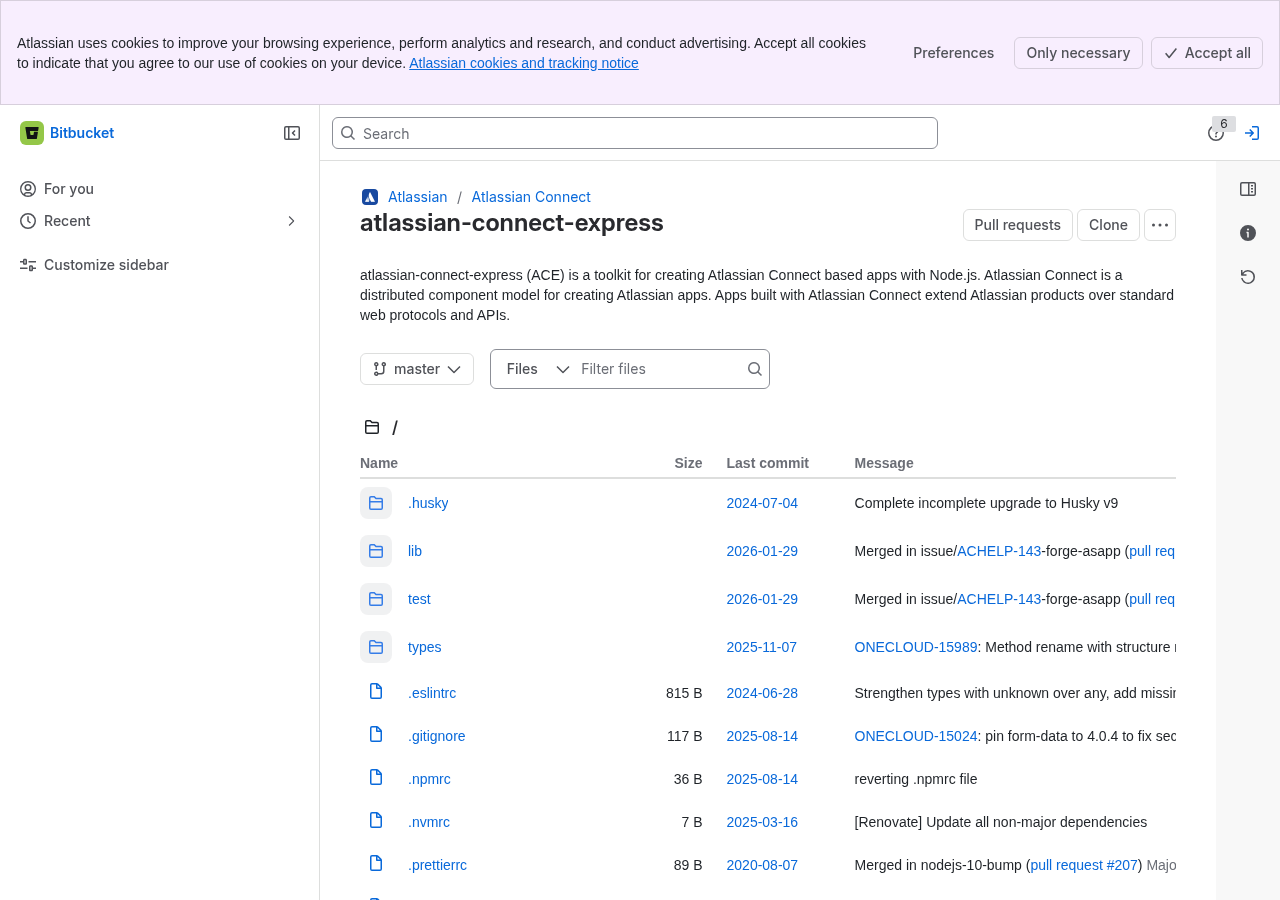
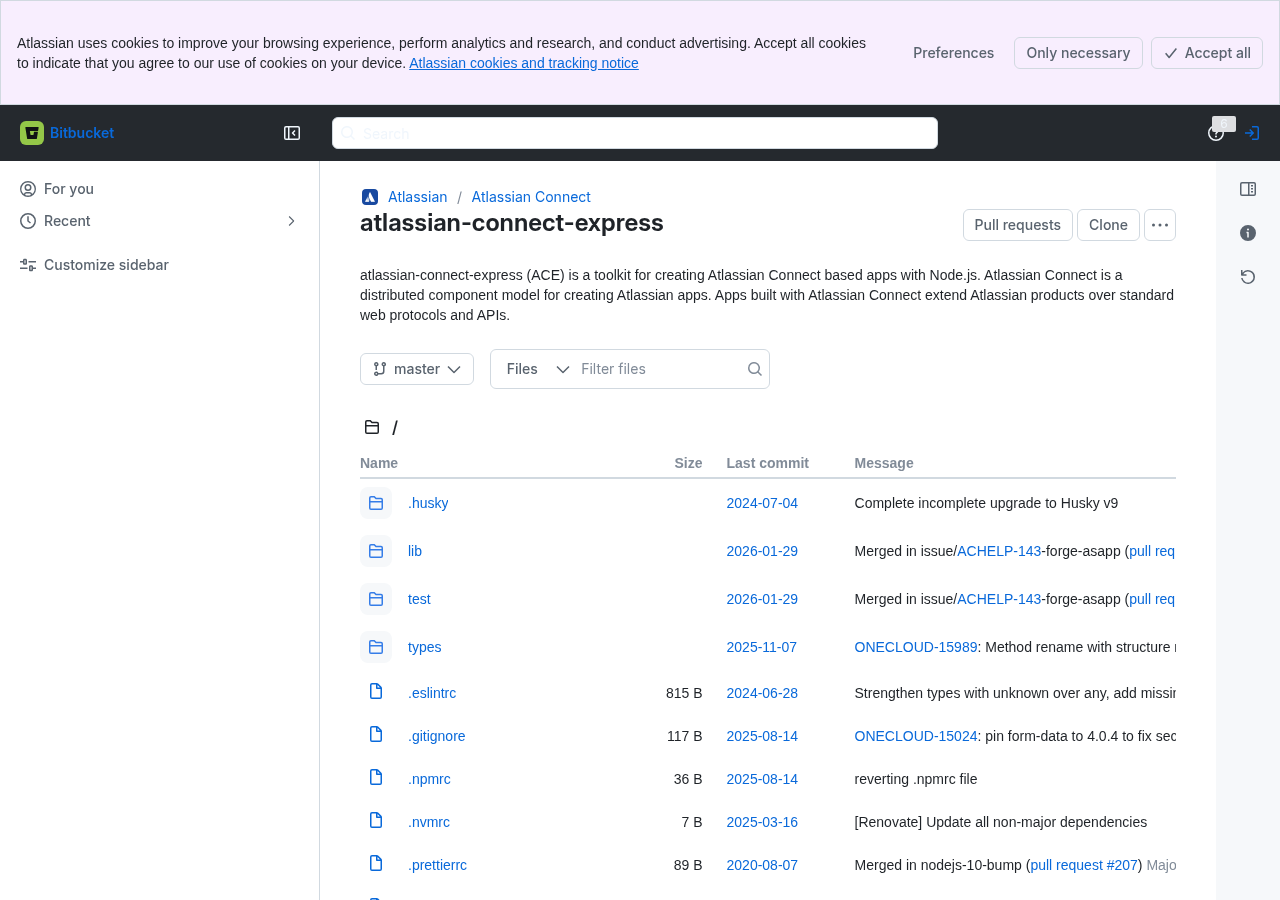
feat(skin): repaint a Bitbucket source from its Atlassian tokens
Bitbucket Cloud exposes Atlassian's `--ds-*` design tokens on <html>, so a
bitbucket.org page shown with the GitHub or GitLab UI had nothing to
repaint: the palette stayed Bitbucket's, and on the workspace-repositories
page the GitHub UI changed nothing at all, since Bitbucket already speaks
GitHub's words.

Map the semantic tokens — surfaces, text, links, borders, icons, selected
and brand backgrounds, status surfaces and radii — onto the applied skin's
`--gs-*` palette in the shared token layer, scoped by `data-gs-source`
(Bitbucket also sets `data-theme`, so the Gitea block must not read it and
vice versa). Give the top bar the applied skin's header treatment the way
the Gitea `#navbar` block does, because Bitbucket's header is a plain
surface the token map alone leaves white.

The markup is still Bitbucket's — no SELECTORS entry or NAV_RULES rule — so
orientation, navigation and metadata stay partial. The parity model now
credits palette coverage separately from markup coverage, and its scorecard
and the captures move with it.

diff --git a/src/themes/gs-tokens.css b/src/themes/gs-tokens.css
@@ -75,6 +75,100 @@ html:is(.gs-theme-github, .gs-theme-bitbucket) {
   --gl-border-radius-lg: var(--gs-radius-lg) !important;
 }
 
+/* ---------------------- Bitbucket tokens -> gitalike (GitHub, GitLab) -- */
+/* Bitbucket Cloud is built on Atlassian's design system, whose semantic
+   `--ds-*` tokens it exposes on <html>. Mapping them at the applied skin's
+   palette repaints a Bitbucket page without any Bitbucket-specific markup
+   selectors: the token names, not the structure, are the hook. Scoped by
+   `data-gs-source` (set by content/theme.js) rather than `[data-theme]`,
+   because Bitbucket also sets `data-theme` — the Gitea block above must not
+   read a Bitbucket page, and vice versa. A Bitbucket source shown with its
+   own UI is a no-op and never carries a `gs-theme-*` class. */
+
+html[data-gs-source="bitbucket"]:is(.gs-theme-github, .gs-theme-gitlab) {
+  /* surfaces */
+  --ds-surface: var(--gs-canvas) !important;
+  --ds-surface-raised: var(--gs-canvas) !important;
+  --ds-surface-overlay: var(--gs-canvas-overlay) !important;
+  --ds-elevation-surface-current: var(--gs-canvas) !important;
+  --ds-surface-sunken: var(--gs-canvas-subtle) !important;
+  --ds-background-code-default: var(--gs-canvas-subtle) !important;
+
+  /* text */
+  --ds-text: var(--gs-fg) !important;
+  --ds-text-subtle: var(--gs-fg-muted) !important;
+  --ds-text-subtlest: var(--gs-fg-subtle) !important;
+  --ds-text-disabled: var(--gs-fg-subtle) !important;
+  --ds-text-inverse: var(--gs-canvas) !important;
+  --ds-text-selected: var(--gs-accent) !important;
+  --ds-text-brand: var(--gs-accent) !important;
+
+  /* links */
+  --ds-link: var(--gs-link) !important;
+  --ds-link-pressed: var(--gs-accent-hover) !important;
+  --ds-link-visited: var(--gs-accent-hover) !important;
+
+  /* borders */
+  --ds-border: var(--gs-border) !important;
+  --ds-border-input: var(--gs-border) !important;
+  --ds-border-bold: var(--gs-border) !important;
+  --ds-border-disabled: var(--gs-border-muted) !important;
+  --ds-border-inverse: var(--gs-canvas) !important;
+  --ds-border-focused: var(--gs-accent) !important;
+  --ds-border-selected: var(--gs-accent) !important;
+  --ds-border-brand: var(--gs-accent) !important;
+
+  /* icons */
+  --ds-icon: var(--gs-fg) !important;
+  --ds-icon-subtle: var(--gs-fg-muted) !important;
+  --ds-icon-disabled: var(--gs-fg-subtle) !important;
+  --ds-icon-inverse: var(--gs-canvas) !important;
+  --ds-icon-selected: var(--gs-accent) !important;
+  --ds-icon-brand: var(--gs-accent) !important;
+
+  /* backgrounds */
+  --ds-background-neutral: var(--gs-canvas-subtle) !important;
+  --ds-background-neutral-hovered: var(--gs-canvas-inset) !important;
+  --ds-background-neutral-pressed: var(--gs-canvas-inset) !important;
+  --ds-background-neutral-bold: var(--gs-fg) !important;
+  --ds-background-input: var(--gs-canvas) !important;
+  --ds-background-disabled: var(--gs-canvas-subtle) !important;
+  --ds-background-selected: var(--gs-accent-subtle) !important;
+  --ds-background-selected-bold: var(--gs-accent) !important;
+  --ds-background-brand-bold: var(--gs-accent) !important;
+  --ds-background-brand-bold-hovered: var(--gs-accent-hover) !important;
+  --ds-background-brand-subtlest: var(--gs-accent-subtle) !important;
+
+  /* status surfaces */
+  --ds-background-success: var(--gs-success-subtle) !important;
+  --ds-background-danger: var(--gs-danger-subtle) !important;
+  --ds-background-warning: var(--gs-attention-subtle) !important;
+  --ds-background-information: var(--gs-accent-subtle) !important;
+
+  /* shape */
+  --ds-radius-small: var(--gs-radius-sm) !important;
+  --ds-radius-medium: var(--gs-radius-md) !important;
+  --ds-radius-large: var(--gs-radius-lg) !important;
+  --ds-radius-xlarge: var(--gs-radius-lg) !important;
+}
+
+/* Bitbucket's top bar is a plain surface, so the token map above leaves it
+   white — the one part of a page a viewer reads as "skinned" stays put. Give
+   the header the applied layout's bar, the way the Gitea `#navbar` block does,
+   and re-point the header-local tokens so the wordmark, icons and search stay
+   legible on it. `data-layout-slot` marks Atlassian's page-layout header. */
+html[data-gs-source="bitbucket"]:is(.gs-theme-github, .gs-theme-gitlab)
+  header[data-layout-slot="true"] {
+  background-color: var(--gs-header-bg) !important;
+  --ds-surface: var(--gs-header-bg);
+  --ds-text: var(--gs-header-fg);
+  --ds-text-subtle: var(--gs-header-fg);
+  --ds-text-subtlest: var(--gs-header-fg);
+  --ds-icon: var(--gs-header-fg);
+  --ds-icon-subtle: var(--gs-header-fg);
+  --ds-border: var(--gs-header-bg);
+}
+
 /* -------------------- Gitea tokens -> gitalike (every skin) -- */
 /* Codeberg (Forgejo) and gitea.com expose Gitea's own `--color-*` names, on
    <html data-theme>, whichever skin is applied. The mapping is the same for

diff --git a/docs/UX-PARITY.md b/docs/UX-PARITY.md
@@ -27,10 +27,12 @@ Bitbucket's are in `src/lib/ux.js` under `bitbucket` and are covered by
   (`html.gs-theme-github`, `themes/as-github.css`)
 - **→B** — any source shown with the Bitbucket UI
   (`html.gs-theme-bitbucket`, `themes/as-bitbucket.css`, layout `gitlab`)
-- **B→G / B→L** — a Bitbucket source shown with the GitHub or GitLab UI.
-  Bitbucket has no structural CSS or selectors yet (its page is a client-rendered
-  SPA with no capturable public repository page), so this is the
-  source-agnostic passes only: copy, control labels and reference markers.
+- **B→G / B→L** — a Bitbucket source shown with the GitHub or GitLab UI. There
+  are no Bitbucket selectors or nav rules yet (its page is a client-rendered SPA
+  with no capturable public repository page), so the structure stays Bitbucket's;
+  the palette is mapped from its Atlassian `--ds-*` tokens, and the
+  source-agnostic passes — copy, control labels and reference markers — run on
+  top.
 - **Ger→G / Ger→L** — a Gerrit source shown with the GitHub or GitLab UI. Same
   vocabulary-only treatment as Bitbucket, and without even the reference-marker
   support: Gerrit identifies a change by number/Change-Id, not a `#`/`!` marker.
@@ -105,7 +107,7 @@ at a time from the popup).
 | **GitHub** | 10.0 | 9.7 | 8.4 |
 | **GitLab** | 9.7 | 10.0 | 8.4 |
 | **Gitea / Forgejo** | 8.1 | 7.9 | 8.0 |
-| **Bitbucket** | 2.6 | 2.0 | 10.0 |
+| **Bitbucket** | 3.6 | 3.0 | 10.0 |
 | **Gerrit** | 2.2 | 1.6 | 2.2 |
 
 ### Profile pages, sources × skins
@@ -115,7 +117,7 @@ at a time from the popup).
 | **GitHub** | 10.0 | 9.9 | 6.7 |
 | **GitLab** | 9.5 | 10.0 | 6.7 |
 | **Gitea / Forgejo** | 5.0 | 5.0 | 4.3 |
-| **Bitbucket** | 2.5 | 2.5 | 10.0 |
+| **Bitbucket** | 3.4 | 3.4 | 10.0 |
 | **Gerrit** | 2.1 | 2.1 | 2.1 |
 
 ### Where the points are lost
@@ -157,24 +159,26 @@ at a time from the popup).
   rail or card rebuilding. This is the largest scoring gap, and the docs make no
   profile claim for Gitea/Forgejo; the captures agree — there is no
   `codeberg-profile-*.png` in `docs/`.
-- **Bitbucket as a source (2.6 / 2.0 project, 2.5 profile)** — the lowest row,
-  and deliberately so: a Bitbucket host can wear the GitHub or GitLab UI, but
-  only the source-agnostic passes run — copy, control labels, account chrome and
-  reference markers (its `/pull-requests/N` routes are matched). There is no
-  token block, `SELECTORS` entry or `NAV_RULES` rule for Bitbucket markup, so
-  palette, orientation, navigation, metadata and shortcuts are near zero. That
-  is a statement about missing markup coverage, not a bug: Bitbucket Cloud is a
-  client-rendered SPA and serves no capturable public repository page, so its
-  structural hooks cannot be verified the way GitHub's, GitLab's and Gitea's
-  are. The diagonal is 10.0 because a source on its own UI needs no
-  transformation.
-- **Gerrit as a source (2.2 / 1.6 project, 2.1 profile)** — the same story as
-  Bitbucket, one notch lower: Gerrit's PolyGerrit UI is client-rendered, there is
-  no bundled host (instances are added one origin at a time), and even the
-  reference markers do not carry over — Gerrit identifies a change by its change
-  number (`/c/<project>/+/<N>`) and a Change-Id, not a `#`/`!` pull-request
-  number — so the `refs` dimension is partial too. Copy and control labels are
-  the only passes that reach it.
+- **Bitbucket as a source (3.6 / 3.0 project, 3.4 profile)** — still a low row,
+  because only the palette and the source-agnostic passes reach it: copy,
+  control labels and reference markers (its `/pull-requests/N` routes are
+  matched). Bitbucket Cloud exposes Atlassian's `--ds-*` design tokens on
+  <html>, so the GitHub and GitLab skins re-point them at their own palette
+  (`themes/gs-tokens.css`), including the top bar; that is the `palette`
+  dimension. There is still no
+  `SELECTORS` entry or `NAV_RULES` rule for Bitbucket markup, so orientation,
+  navigation, metadata and shortcuts stay near zero. That is a statement about
+  missing *structural* coverage, not a bug: Bitbucket Cloud is a client-rendered
+  SPA and serves no capturable public repository page, so its hooks cannot be
+  verified the way GitHub's, GitLab's and Gitea's are. The diagonal is 10.0
+  because a source on its own UI needs no transformation.
+- **Gerrit as a source (2.2 / 1.6 project, 2.1 profile)** — the lowest row: it
+  has neither structural hooks nor a token layer the skins map, so palette joins
+  orientation, navigation, metadata and shortcuts in staying near zero, and even
+  the reference markers do not carry over — Gerrit identifies a change by its
+  change number (`/c/<project>/+/<N>`) and a Change-Id, not a `#`/`!`
+  pull-request number — so the `refs` dimension is partial too. Copy and control
+  labels are the only passes that reach it.
 
 The scores are computed by `tools/compare/parity-score.mjs` (`npm run parity`, or
 `npm run parity -- --detail` for the per-dimension breakdown) and
